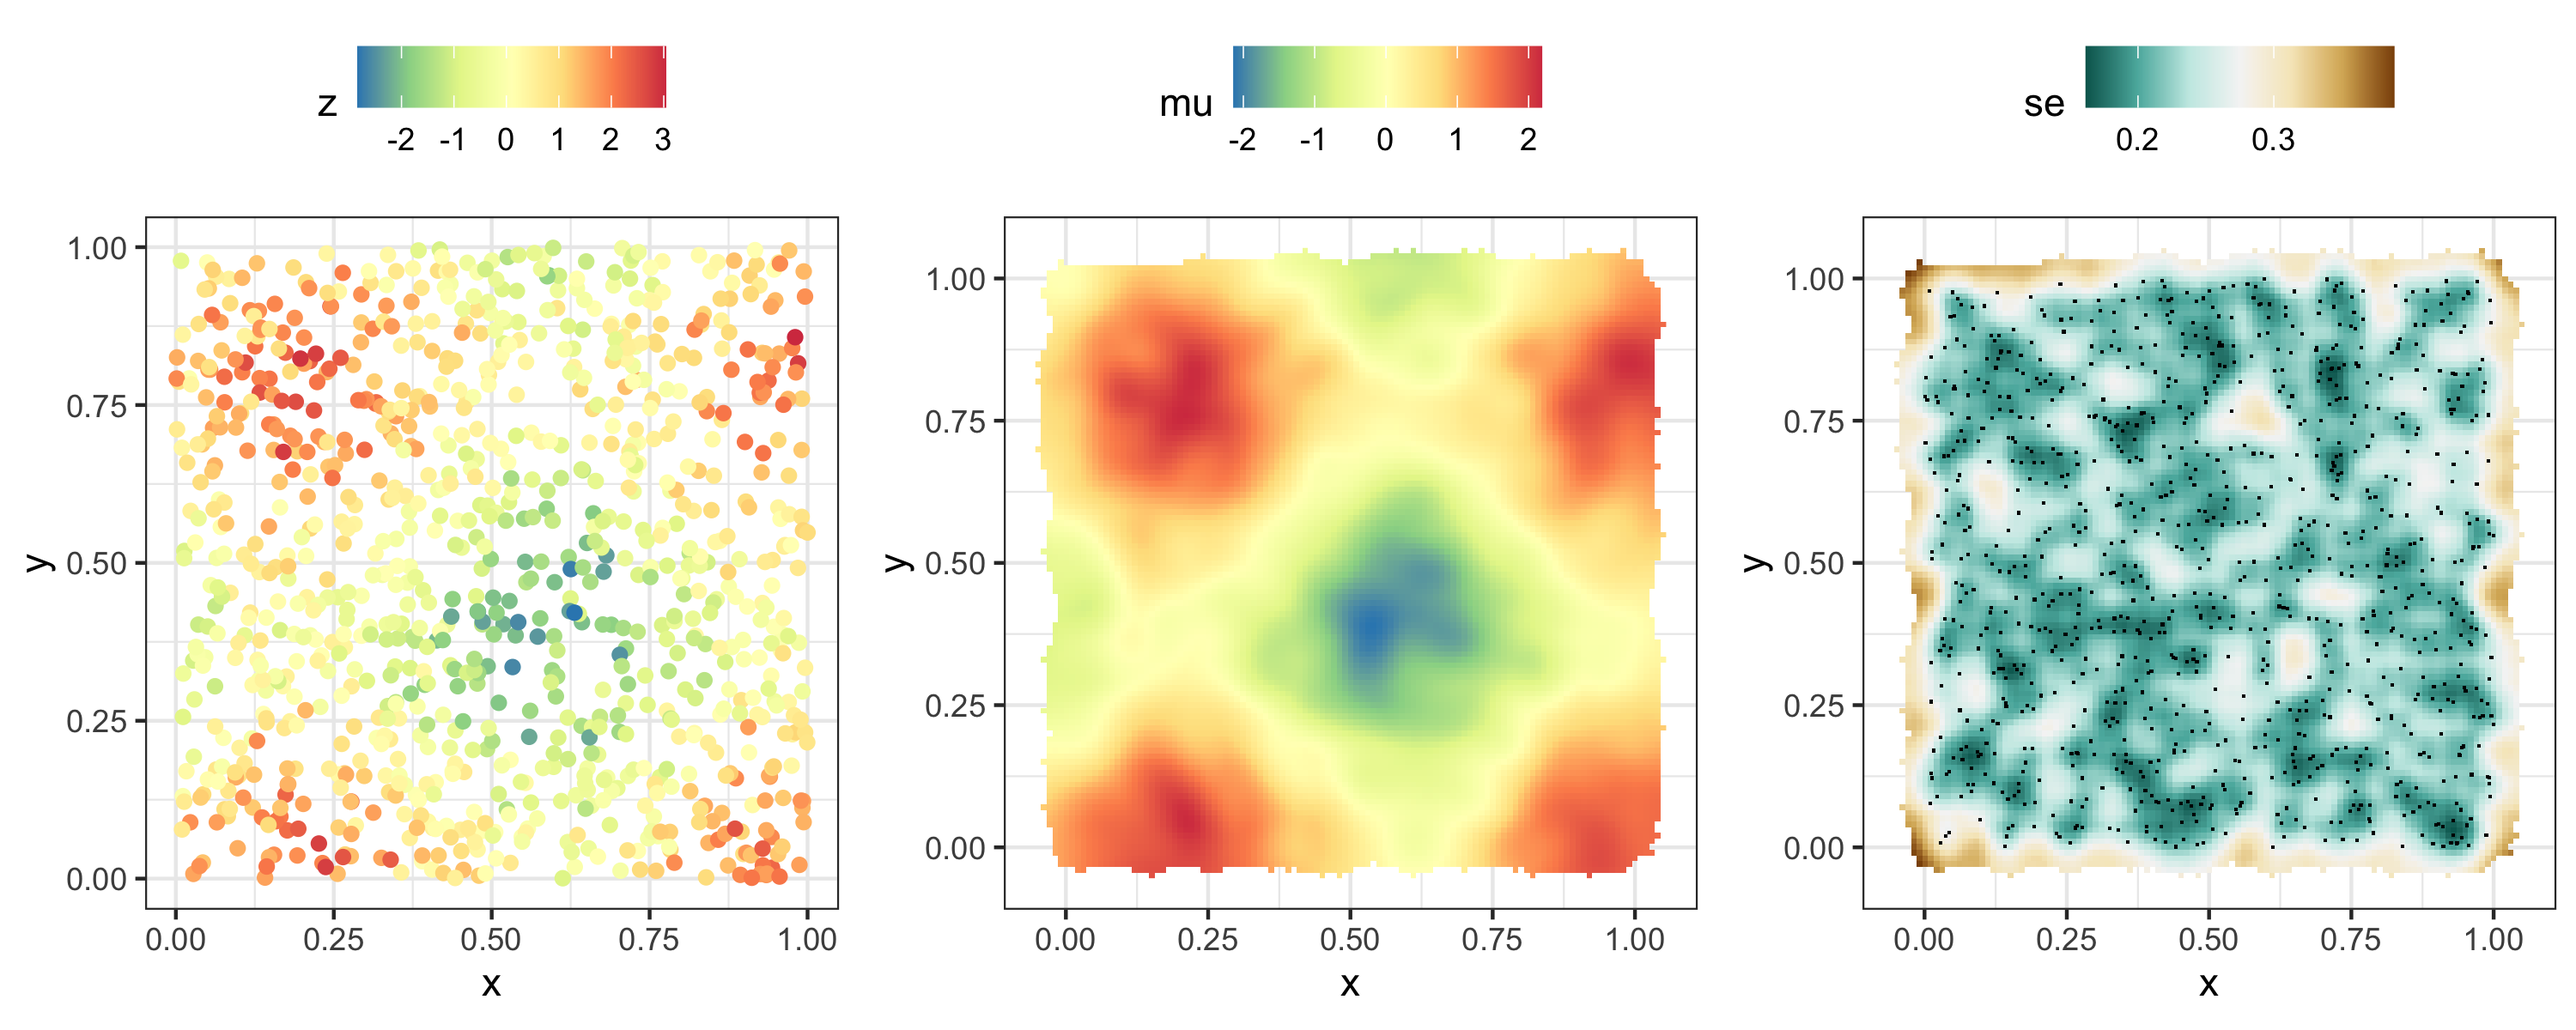
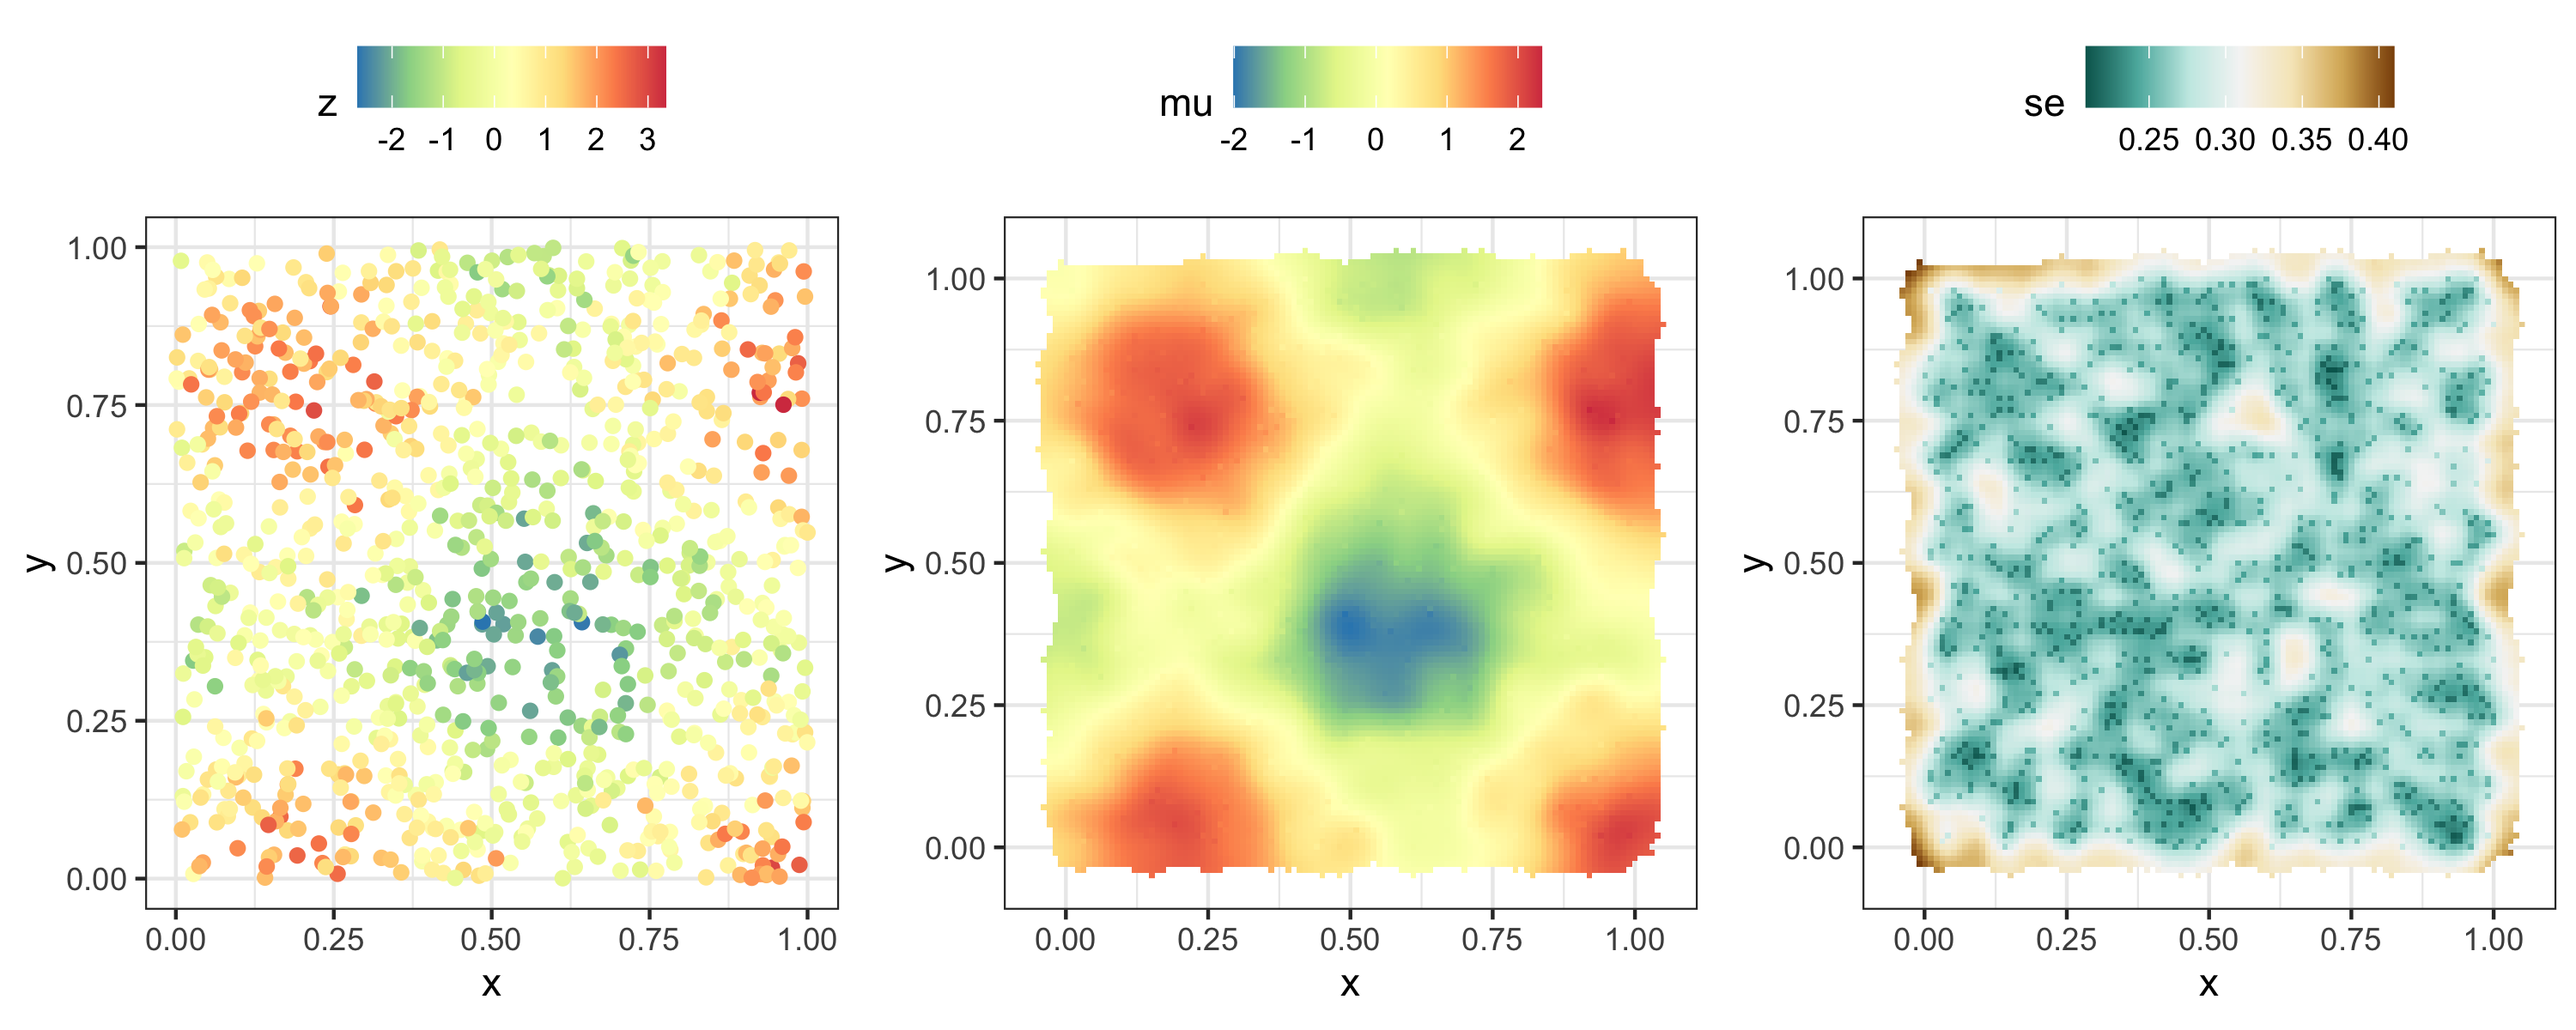
Updated readme and implemented SRE.plot()

diff --git a/README.md b/README.md
@@ -80,19 +80,9 @@ S <- FRK(f = z ~ 1,                           # Formula to FRK
          n_EM = 10)                           # Max number of EM iterations
 Pred <- predict(S)                            # Prediction stage
 
-xy <- data.frame(coordinates(Pred))           # Extract info from predictions
-xy$mu <- Pred$mu
-xy$se <- Pred$sd
-
 ## Plotting
-data_plot <- ggplot(zdf) + geom_point(aes(x,y,colour=z)) + 
-  scale_colour_distiller(palette="Spectral") + theme_bw() + coord_fixed()
-pred_plot <- ggplot(xy) + geom_raster(aes(x,y,fill=mu)) + 
-  scale_fill_distiller(palette="Spectral") + theme_bw() + coord_fixed()
-se_plot <- ggplot(xy) + geom_tile(aes(x,y,fill=se)) + 
-  geom_point(data=zdf,aes(x,y),pch=46) +
-  scale_fill_distiller(palette = "BrBG", n.breaks = 3) + theme_bw() + coord_fixed() 
-ggarrange(data_plot, pred_plot, se_plot, nrow = 1, align = "hv", legend = "top")  
+plot_list <- SRE.plot(S, Pred, zdf)
+ggarrange(plotlist = plot_list, nrow = 1, align = "hv", legend = "top") 
 
 ```
 
@@ -111,7 +101,8 @@ ggsave(
 Here we use analyse simulated Poisson data. We signify a Poisson data model with a mean response that is modelled using the square-root link function by setting `response = "poisson"` and `link = "square-root"` in `FRK()`. Other non-Gaussian data models available in `FRK` are the binomial, negative-binomial, gamma, and inverse-Gaussian. 
 
 ```r
-# Simulate Poisson data, using the previous example to construct a mean 
+## Setup
+## Simulate Poisson data, using the data of the previous example to construct a mean 
 RNGversion("3.6.0"); set.seed(1)                          
 zdf$z <- Z$z <- rpois(m, lambda = Z$z^2)
 
@@ -122,19 +113,9 @@ S <- FRK(f = z ~ 1,                           # Formula to FRK
          link = "square-root")                # square-root link function
 Pred <- predict(S)                            # Prediction stage
 
-xy <- data.frame(coordinates(Pred$newdata))   # Extract info from predictions
-xy$mu <- Pred$newdata$p_mu
-xy$se <- Pred$newdata$RMSPE_mu
-
 ## Plotting
-data_plot <- ggplot(zdf) + geom_point(aes(x,y,colour=z)) + 
-  scale_colour_distiller(palette="Spectral") + theme_bw() + coord_fixed()
-pred_plot <- ggplot(xy) + geom_raster(aes(x,y,fill=mu)) + 
-  scale_fill_distiller(palette="Spectral") + theme_bw() + coord_fixed()
-se_plot <- ggplot(xy) + geom_tile(aes(x,y,fill=se)) + 
-  geom_point(data=zdf,aes(x,y),pch=46) +
-  scale_fill_distiller(palette = "BrBG", n.breaks = 4) + theme_bw() + coord_fixed() 
-ggarrange(data_plot, pred_plot, se_plot, nrow = 1, align = "hv", legend = "top")  
+plot_list <- SRE.plot(S, Pred, zdf)
+ggarrange(plotlist = plot_list, nrow = 1, align = "hv", legend = "top")
              
 ```    
 <!---
